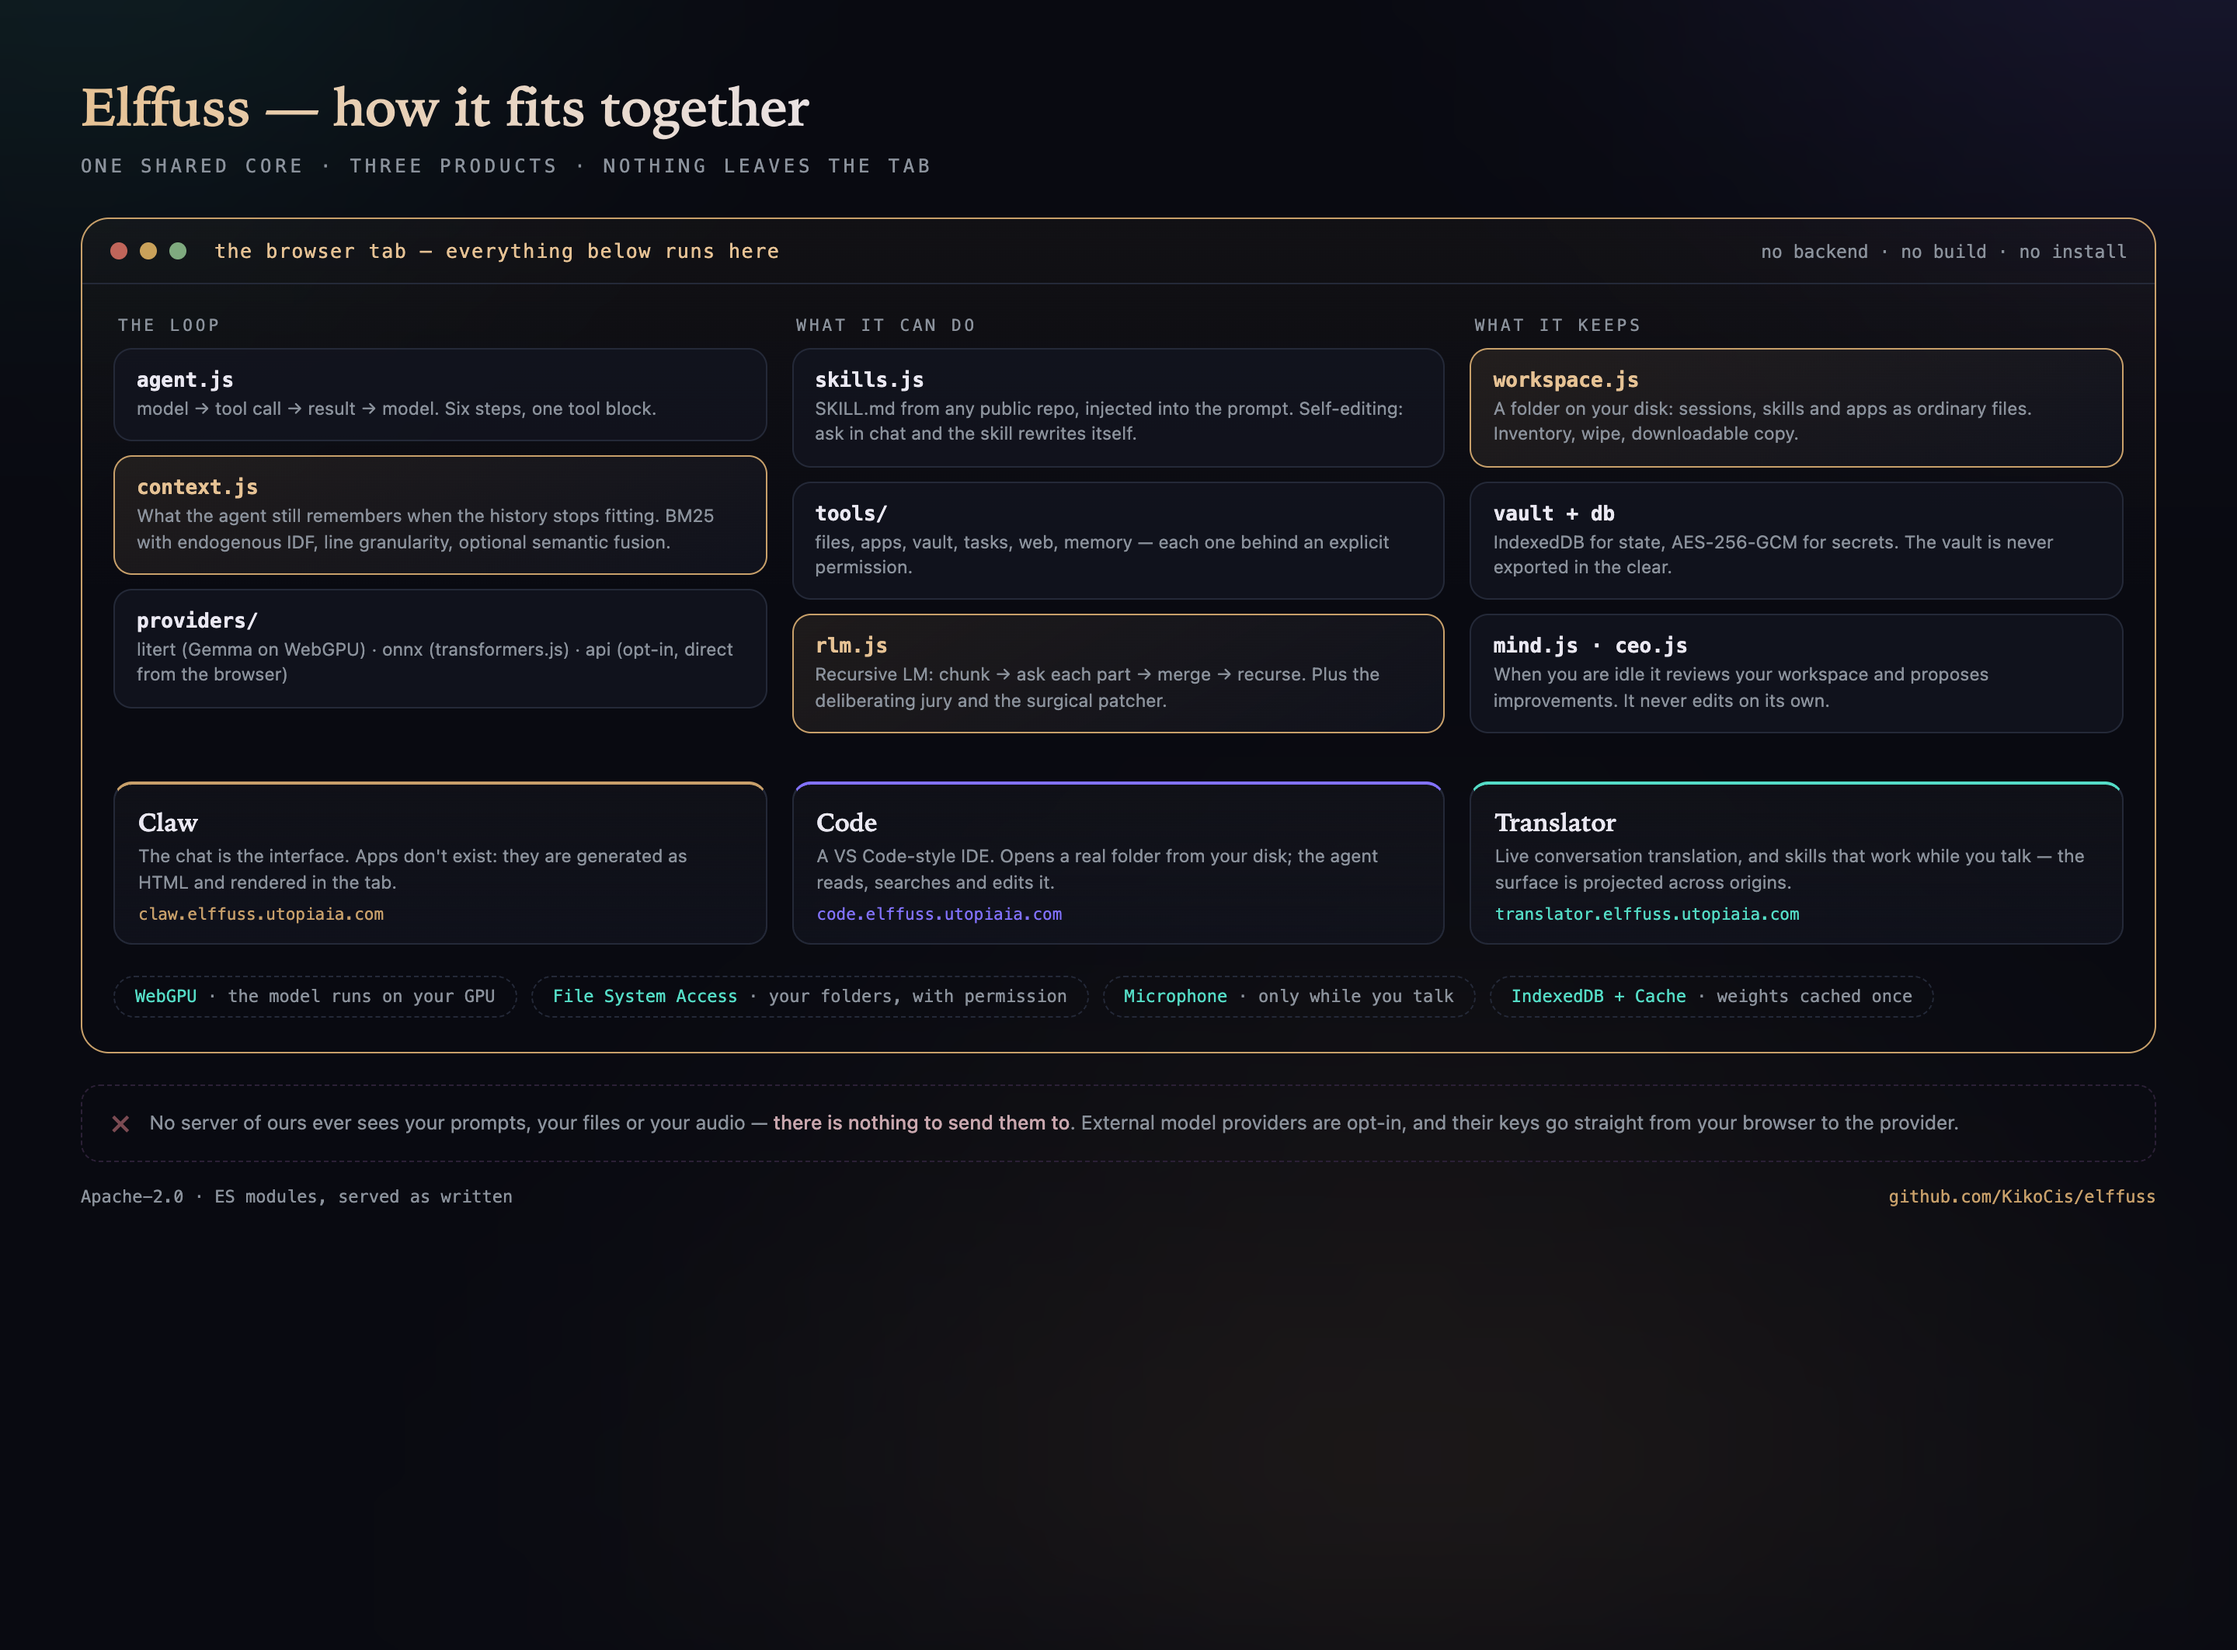
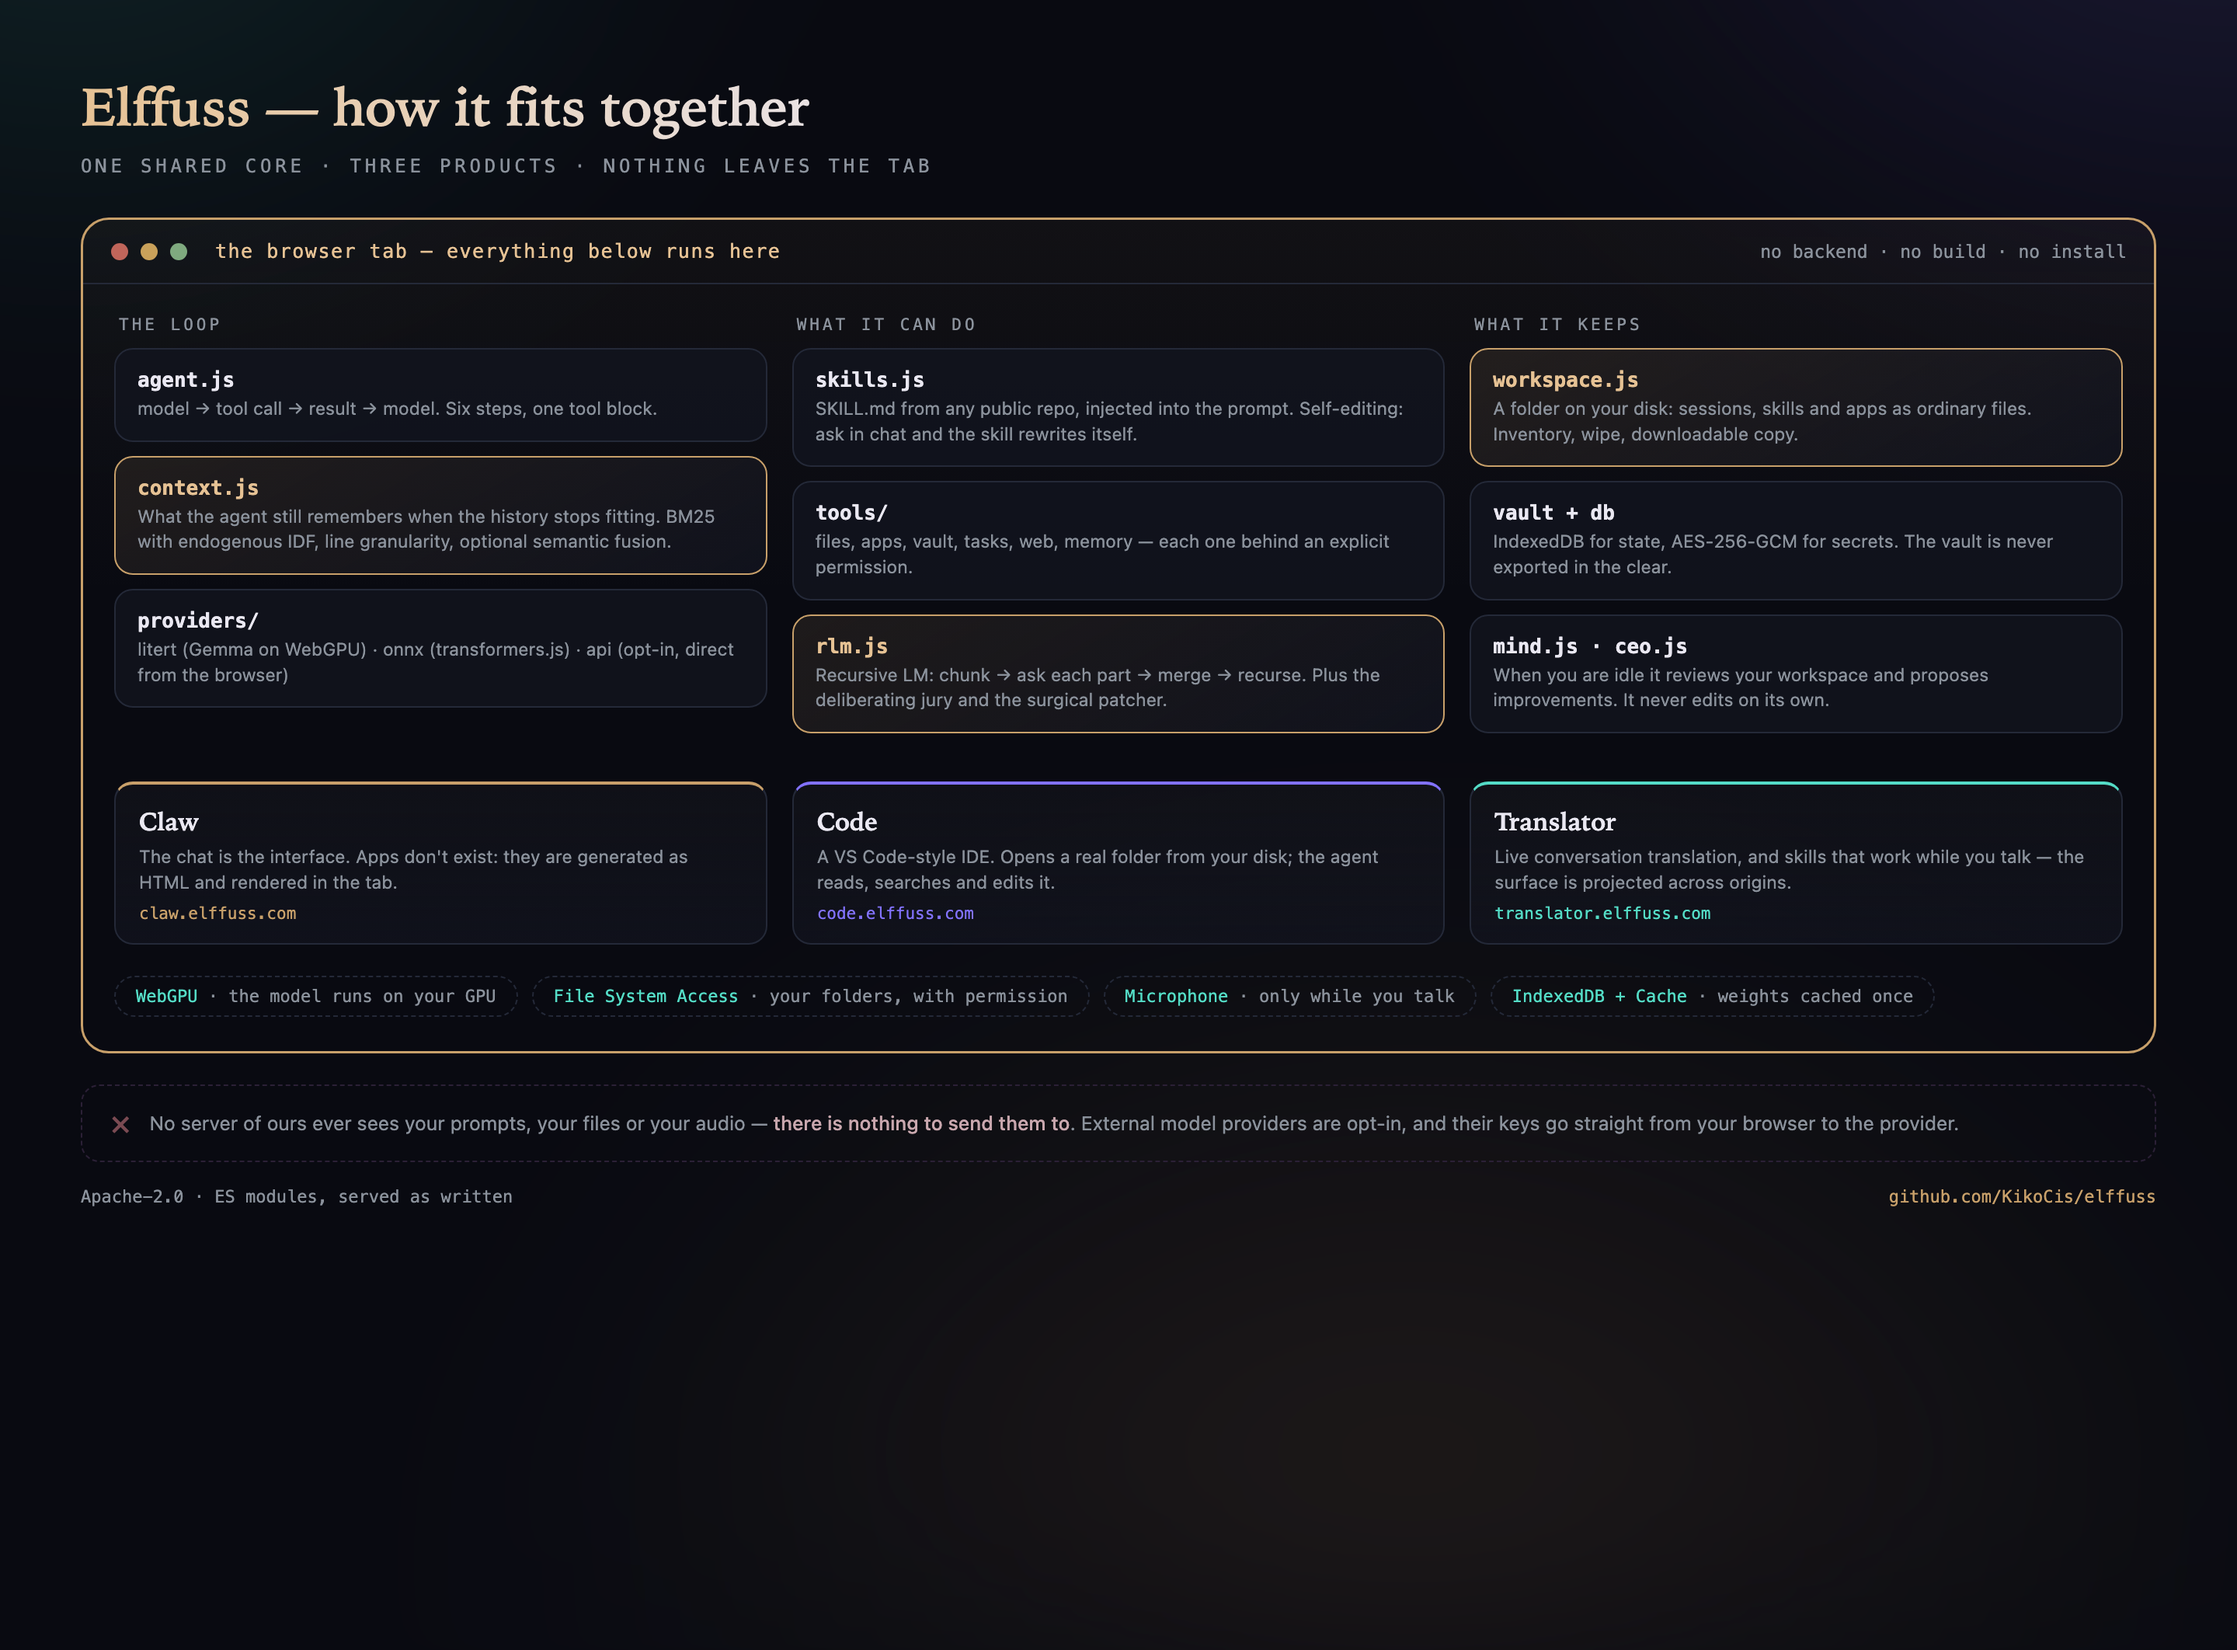
Point README and architecture page at the elffuss.com hosts

diff --git a/docs/architecture.html b/docs/architecture.html
@@ -94,9 +94,9 @@ h1{font-family:var(--serif);font-size:34px;font-weight:600;letter-spacing:-.4px;
     </div>
 
     <div class="apps">
-      <div class="app" style="--c:var(--brass)"><b>Claw</b><span>The chat is the interface. Apps don't exist: they are generated as HTML and rendered in the tab.</span><i>claw.elffuss.utopiaia.com</i></div>
-      <div class="app" style="--c:var(--indigo)"><b>Code</b><span>A VS Code-style IDE. Opens a real folder from your disk; the agent reads, searches and edits it.</span><i>code.elffuss.utopiaia.com</i></div>
-      <div class="app" style="--c:var(--teal)"><b>Translator</b><span>Live conversation translation, and skills that work while you talk — the surface is projected across origins.</span><i>translator.elffuss.utopiaia.com</i></div>
+      <div class="app" style="--c:var(--brass)"><b>Claw</b><span>The chat is the interface. Apps don't exist: they are generated as HTML and rendered in the tab.</span><i>claw.elffuss.com</i></div>
+      <div class="app" style="--c:var(--indigo)"><b>Code</b><span>A VS Code-style IDE. Opens a real folder from your disk; the agent reads, searches and edits it.</span><i>code.elffuss.com</i></div>
+      <div class="app" style="--c:var(--teal)"><b>Translator</b><span>Live conversation translation, and skills that work while you talk — the surface is projected across origins.</span><i>translator.elffuss.com</i></div>
     </div>
 
     <div class="hw">

diff --git a/README.md b/README.md
@@ -10,9 +10,9 @@ history stops fitting.
 
 [![License](https://img.shields.io/badge/license-Apache--2.0-c8a06a?style=flat-square)](LICENSE)
 [![No build](https://img.shields.io/badge/build-none-8272ff?style=flat-square)](#design-rules)
-[![Runs in](https://img.shields.io/badge/runs%20in-your%20browser-54dcc6?style=flat-square)](https://elffuss.utopiaia.com)
+[![Runs in](https://img.shields.io/badge/runs%20in-your%20browser-54dcc6?style=flat-square)](https://elffuss.com)
 
-[Claw](https://claw.elffuss.utopiaia.com) · [Code](https://code.elffuss.utopiaia.com) · [Translator](https://translator.elffuss.utopiaia.com) · [elffuss.utopiaia.com](https://elffuss.utopiaia.com)
+[Claw](https://claw.elffuss.com) · [Code](https://code.elffuss.com) · [Translator](https://translator.elffuss.com) · [elffuss.com](https://elffuss.com)
 
 </div>
 
@@ -133,9 +133,9 @@ The products **vendor** the core into `web/js/` (same file names) and keep it in
 
 ## The products
 
-- **[Elffuss Claw](https://claw.elffuss.utopiaia.com)** — an agentic web OS: the chat is the interface, and apps are created as HTML on the fly. ([source](https://github.com/KikoCis/elffuss-claw))
-- **[Elffuss Code](https://code.elffuss.utopiaia.com)** — a VS Code-style web IDE with the coding agent built in. ([source](https://github.com/KikoCis/elffuss-code))
-- **[Elffuss Translator](https://translator.elffuss.utopiaia.com)** — real-time conversation translation with live audio skills that work while you talk. ([source](https://github.com/KikoCis/elffuss-translator))
+- **[Elffuss Claw](https://claw.elffuss.com)** — an agentic web OS: the chat is the interface, and apps are created as HTML on the fly. ([source](https://github.com/KikoCis/elffuss-claw))
+- **[Elffuss Code](https://code.elffuss.com)** — a VS Code-style web IDE with the coding agent built in. ([source](https://github.com/KikoCis/elffuss-code))
+- **[Elffuss Translator](https://translator.elffuss.com)** — real-time conversation translation with live audio skills that work while you talk. ([source](https://github.com/KikoCis/elffuss-translator))
 
 The full story, including what went wrong: **<https://bitacora.utopiaia.com/posts/16-beaten-by-doing-nothing.html>**
 
